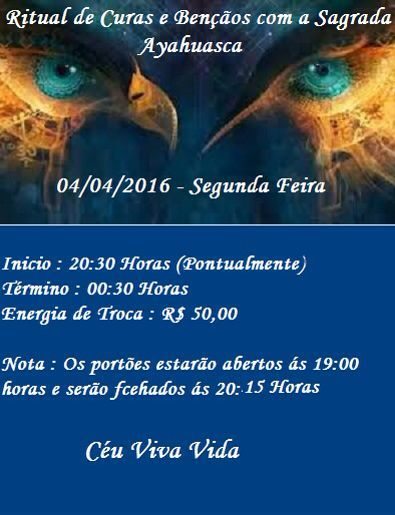
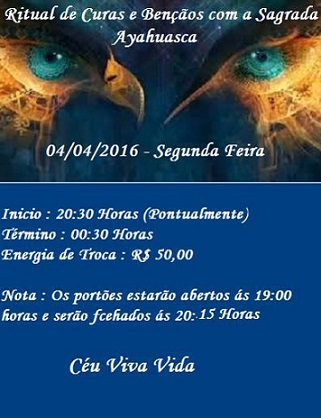
teste

diff --git a/index.html b/index.html
@@ -100,7 +100,7 @@
 			<div class="row">
 				<div class="col-lg-12 text-center">
 					<h2>Próximos Rituais</h2>
-					<img width="300px" src="img/rituais/ceuvidavida-20160404.jpg">		
+					<img src="img/rituais/ceuvidavida-20160404.jpg">		
 				</div>
 			</div>
 		</div>
